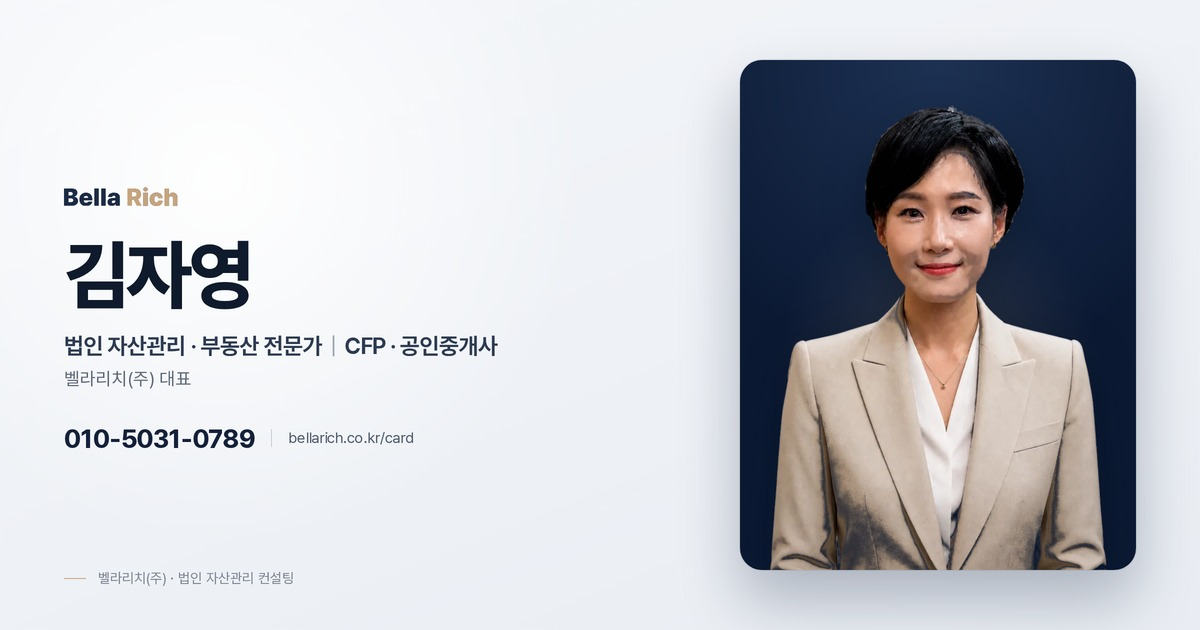
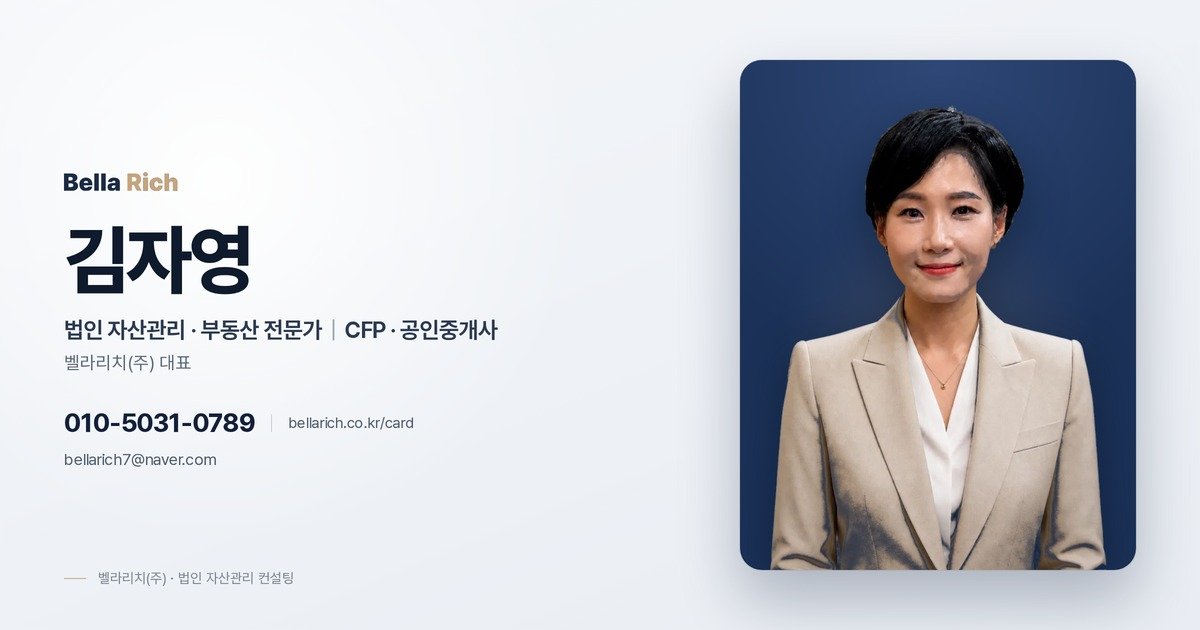
전자명함 연락처 정리 — 상담문의 삭제·이메일 행 교체, 링크 3행 설명 삭제·글씨·아이콘 확대, 히어로 남색 한 단계 밝게(#1B3157), vCard·og 전화번호 1개·이메일 포함

Changed region(s): [[0.6167, 0.0905, 0.9558, 0.9048], [0.0308, 0.3619, 0.4317, 0.754], [0.0308, 0.2714, 0.1542, 0.3317]]

diff --git a/card/index.html b/card/index.html
@@ -79,13 +79,13 @@ h1,h2,p{margin:0}
   position:relative;overflow:hidden;
   height:clamp(300px,84vw,360px);
   background:
-    radial-gradient(54% 48% at 50% 62%,rgba(197,164,126,.22) 0%,rgba(197,164,126,.06) 52%,rgba(197,164,126,0) 76%),
-    radial-gradient(125% 95% at 50% 2%,#1D3152 0%,rgba(29,49,82,0) 62%),
-    #0B1933;
+    radial-gradient(54% 48% at 50% 62%,rgba(197,164,126,.20) 0%,rgba(197,164,126,.06) 52%,rgba(197,164,126,0) 76%),
+    radial-gradient(125% 95% at 50% 2%,#2E4776 0%,rgba(46,71,118,0) 62%),
+    #1B3157;
 }
 .hero__light{
   position:absolute;inset:0;
-  background:radial-gradient(72% 44% at 50% -8%,rgba(255,255,255,.12),rgba(255,255,255,0) 72%);
+  background:radial-gradient(72% 44% at 50% -8%,rgba(255,255,255,.10),rgba(255,255,255,0) 72%);
   pointer-events:none;
 }
 .hero__photo{
@@ -157,21 +157,20 @@ h1,h2,p{margin:0}
 .more{background:#fff;padding:0 0 2px}
 .links{display:flex;flex-direction:column}
 .lk{
-  display:flex;align-items:center;gap:12px;
-  min-height:56px;padding:10px 18px;
+  display:flex;align-items:center;gap:15px;
+  min-height:57px;padding:8px 18px;
   border-top:1px solid var(--line);
   transition:background .16s ease;
 }
 .lk:hover,.lk:focus-visible{background:#fafbfc}
 .lk:active{background:#f5f7fa}
 .lk__ic{
-  flex:none;width:34px;height:34px;border-radius:10px;display:grid;place-items:center;
+  flex:none;width:40px;height:40px;border-radius:12px;display:grid;place-items:center;
   background:#f1f3f8;color:#26364f;
 }
-.lk__ic svg{width:17px;height:17px;fill:none;stroke:currentColor;stroke-width:1.7;stroke-linecap:round;stroke-linejoin:round}
-.lk__tx{flex:1;min-width:0}
-.lk__t{display:block;font-size:13.5px;font-weight:650;letter-spacing:-.02em;line-height:1.4;color:#18222f}
-.lk__d{display:block;font-size:11.5px;line-height:1.5;color:var(--label2);margin-top:1px;letter-spacing:-.01em}
+.lk__ic svg{width:20px;height:20px;fill:none;stroke:currentColor;stroke-width:1.7;stroke-linecap:round;stroke-linejoin:round}
+.lk__tx{flex:1;min-width:0;display:flex;align-items:center}
+.lk__t{display:block;width:100%;font-size:16.5px;font-weight:700;letter-spacing:-.028em;line-height:1.35;color:#18222f}
 .lk__ar{flex:none;color:#c2c8d3;display:flex}
 .lk__ar svg{width:14px;height:14px;fill:none;stroke:currentColor;stroke-width:2;stroke-linecap:round;stroke-linejoin:round}
 .lk--kakao .lk__ic{background:#FEE500;color:#231F20}
@@ -190,8 +189,8 @@ h1,h2,p{margin:0}
 }
 .sns__a:hover,.sns__a:focus-visible{background:#fafbfd;border-color:#d2d8e2}
 .sns__a:active{background:#f3f5f9}
-.sns__i{flex:none;width:24px;height:24px;border-radius:8px;display:grid;place-items:center;color:#fff}
-.sns__i svg{width:14px;height:14px;fill:none;stroke:#fff;stroke-width:1.9;stroke-linecap:round;stroke-linejoin:round}
+.sns__i{flex:none;width:26px;height:26px;border-radius:9px;display:grid;place-items:center;color:#fff}
+.sns__i svg{width:15px;height:15px;fill:none;stroke:#fff;stroke-width:1.9;stroke-linecap:round;stroke-linejoin:round}
 .sns__i--yt{background:#FF0000}
 .sns__i--ig{background:radial-gradient(circle at 28% 108%,#fdf497 0%,#fd5949 46%,#d6249f 62%,#285AEB 92%)}
 .sns__i--nb{background:#03C75A}
@@ -243,7 +242,10 @@ h1,h2,p{margin:0}
   .idbox__name{font-size:19.5px}
   .br-logo{height:13.5px}
   .info__row{padding:14px 22px;min-height:58px}
-  .lk{padding:11px 22px}
+  .lk{min-height:60px;padding:8px 22px;gap:16px}
+  .lk__t{font-size:17px}
+  .lk__ic{width:42px;height:42px;border-radius:13px}
+  .lk__ic svg{width:21px;height:21px}
   .acts{padding:16px 22px 6px}
   .foot{padding-bottom:28px}
 }
@@ -280,9 +282,9 @@ h1,h2,p{margin:0}
         <span class="info__v">010-5031-0789</span>
         <span class="info__ar" aria-hidden="true"><svg viewBox="0 0 24 24"><path d="M9 5.5 15.5 12 9 18.5"/></svg></span>
       </a>
-      <a class="info__row" href="tel:+821048255383" aria-label="상담문의 010-4825-5383으로 전화하기">
-        <span class="info__k">상담문의</span>
-        <span class="info__v">010-4825-5383</span>
+      <a class="info__row" href="mailto:bellarich7@naver.com" aria-label="이메일 bellarich7@naver.com으로 메일 보내기">
+        <span class="info__k">이메일</span>
+        <span class="info__v">bellarich7@naver.com</span>
         <span class="info__ar" aria-hidden="true"><svg viewBox="0 0 24 24"><path d="M9 5.5 15.5 12 9 18.5"/></svg></span>
       </a>
       <a class="info__row" href="https://bellarich.co.kr" target="_blank" rel="noopener">
@@ -305,7 +307,6 @@ h1,h2,p{margin:0}
           <span class="lk__ic"><svg viewBox="0 0 24 24" aria-hidden="true"><path d="M12 4.2c-4.6 0-8.4 2.9-8.4 6.5 0 2.3 1.5 4.4 3.9 5.6l-.9 3c-.1.3.2.5.5.3l3.4-2.2c.5.1 1 .1 1.5.1 4.6 0 8.4-2.9 8.4-6.5S16.6 4.2 12 4.2z" fill="currentColor" stroke="none"/></svg></span>
           <span class="lk__tx">
             <span class="lk__t">카카오톡 채널 친구 추가</span>
-            <span class="lk__d">1:1 채팅 상담 · 새 소식 받기</span>
           </span>
           <span class="lk__ar" aria-hidden="true"><svg viewBox="0 0 24 24"><path d="M9 5.5 15.5 12 9 18.5"/></svg></span>
         </a>
@@ -314,7 +315,6 @@ h1,h2,p{margin:0}
           <span class="lk__ic"><svg viewBox="0 0 24 24" aria-hidden="true"><path d="M8.4 4.2h7.2a2 2 0 0 1 2 2v13.6a2 2 0 0 1-2 2H8.4a2 2 0 0 1-2-2V6.2a2 2 0 0 1 2-2Z"/><path d="M9.6 3.1h4.8v2.4H9.6z"/><path d="M9.4 11.4l1.8 1.8 3.6-3.6"/><path d="M9.6 17h5"/></svg></span>
           <span class="lk__tx">
             <span class="lk__t">1분 법인 자산 건강검진</span>
-            <span class="lk__d">6개 질문으로 내 법인 자산 점검</span>
           </span>
           <span class="lk__ar" aria-hidden="true"><svg viewBox="0 0 24 24"><path d="M9 5.5 15.5 12 9 18.5"/></svg></span>
         </a>
@@ -323,7 +323,6 @@ h1,h2,p{margin:0}
           <span class="lk__ic"><svg viewBox="0 0 24 24" aria-hidden="true"><path d="M20.3 11.2c0 3.5-3.7 6.4-8.3 6.4-1 0-1.9-.1-2.8-.4l-4 2.2 1.1-3.4c-1.5-1.2-2.6-2.9-2.6-4.8 0-3.5 3.7-6.4 8.3-6.4s8.3 2.9 8.3 6.4Z"/><path d="M8.8 11.2h.01M12 11.2h.01M15.2 11.2h.01"/></svg></span>
           <span class="lk__tx">
             <span class="lk__t">1:1 무료 상담 신청</span>
-            <span class="lk__d">법인·CEO 맞춤 전략 상담</span>
           </span>
           <span class="lk__ar" aria-hidden="true"><svg viewBox="0 0 24 24"><path d="M9 5.5 15.5 12 9 18.5"/></svg></span>
         </a>
@@ -389,7 +388,6 @@ h1,h2,p{margin:0}
     'ORG:벨라리치(주)',
     'TITLE:대표',
     'TEL;TYPE=CELL:+82-10-5031-0789',
-    'TEL;TYPE=WORK:+82-10-4825-5383',
     'EMAIL;TYPE=WORK:bellarich7@naver.com',
     'URL:https://bellarich.co.kr',
     'ADR;TYPE=WORK:;;서울 서대문구 이화여대1길 38, 201-51호 (대현동, 다올노블리움);서울특별시;;',
